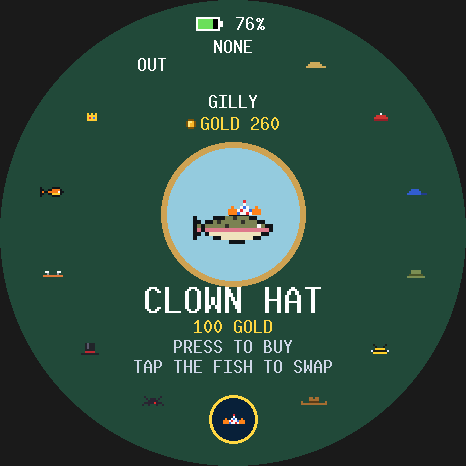
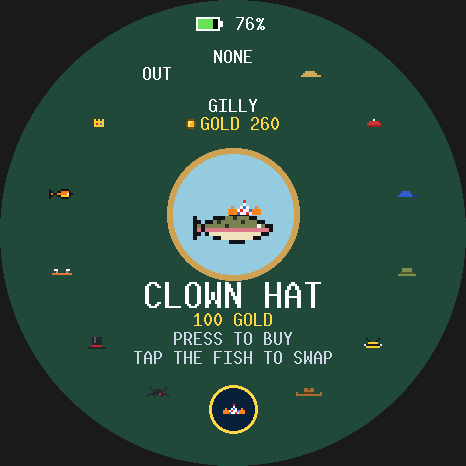
pals_game: the hat shop's ring comes in to 176 px so the pointed hat at 12 o'clock clears the battery level (the trailer footage found it); the mirror and text move to fit. testing::monkey plays with the battery showing at its widest, so every random run checks it too

diff --git a/crates/pals_game/src/shop.rs b/crates/pals_game/src/shop.rs
@@ -26,7 +26,8 @@ const MIRROR_FRAME: Rgb565 = rgb(200, 160, 80);
 /// Round the ring, clockwise from 12 o'clock: NO HAT, the shelf, then OUT.
 pub const CHOICES: usize = HATS.len() + 2;
 pub const OUT: usize = HATS.len() + 1;
-const RING: f32 = 186.0;
+/// The hat ring's radius: inside the battery level at the top of the glass.
+const RING: f32 = 176.0;
 /// A tap this close to a hat on the ring picks it (they're about 83 px apart).
 const HAT_REACH: f32 = 40.0;
 const MIRROR: Point = Point::new(233, 214);
@@ -42,7 +43,7 @@ pub mod ui {
     pub use orbit_ui::Button;
 
     /// The mirror: tap it to dress the next fish.
-    pub const MIRROR: Button = Button::new(163, 144, 140, 140, "");
+    pub const MIRROR: Button = Button::new(167, 148, 132, 132, "");
 }
 
 #[derive(Resource, Debug, Default)]
@@ -155,8 +156,8 @@ fn draw_frame(
         &format!("GOLD {}", pals.gold),
         1,
     );
-    shapes.push(disc(MIRROR.x, MIRROR.y, 72, MIRROR_FRAME));
-    shapes.push(disc(MIRROR.x, MIRROR.y, 66, MIRROR_GLASS));
+    shapes.push(disc(MIRROR.x, MIRROR.y, 66, MIRROR_FRAME));
+    shapes.push(disc(MIRROR.x, MIRROR.y, 60, MIRROR_GLASS));
     let hat = pointed.checked_sub(1).filter(|&hat| hat < HATS.len());
     match pals.pets.get(shop.pet) {
         Some(pet) => {
@@ -171,7 +172,7 @@ fn draw_frame(
                 4,
                 true,
             );
-            shapes.push(label(102, pet.name.as_str(), 1, TEXT));
+            shapes.push(label(106, pet.name.as_str(), 1, TEXT));
         }
         None => {
             if let Some(hat) = hat {
@@ -183,7 +184,7 @@ fn draw_frame(
                     flip_x: false,
                 });
             }
-            shapes.push(label(102, "NO FISH TO DRESS", 1, HINT));
+            shapes.push(label(106, "NO FISH TO DRESS", 1, HINT));
         }
     }
     let worn = pals
@@ -220,11 +221,11 @@ fn draw_frame(
             (shelf.name, status, hint)
         }
     };
-    shapes.push(label(301, name, 2, TEXT));
-    shapes.push(label(327, &status, 1, GOLD));
-    shapes.push(label(347, &hint, 1, HINT));
+    shapes.push(label(296, name, 2, TEXT));
+    shapes.push(label(320, &status, 1, GOLD));
+    shapes.push(label(339, &hint, 1, HINT));
     if pals.pets.len() > 1 {
-        shapes.push(label(367, "TAP THE FISH TO SWAP", 1, HINT));
+        shapes.push(label(358, "TAP THE FISH TO SWAP", 1, HINT));
     }
     if let Some(battery) = power.battery {
         battery_level(shapes, &battery);

diff --git a/crates/orbit_core/src/testing.rs b/crates/orbit_core/src/testing.rs
@@ -94,11 +94,19 @@ pub fn set_tilt(app: &mut App, steer_deg: f32, lean_deg: f32) {
     tilt.lean_deg = lean_deg;
 }
 
-/// Plays like someone who doesn't know the game, for `secs` of game time:
-/// turns and leans the device anywhere, presses, holds, taps all over the
-/// glass and sometimes holds BOOT toward sleep (never long enough to sleep).
+/// Plays like someone who doesn't know the game, for `secs` of game time, on
+/// a battery reading at its widest (100%, charging): turns and leans the
+/// device anywhere, presses, holds, taps all over the glass and sometimes
+/// holds BOOT toward sleep (never long enough to sleep).
 /// With the `crowding` feature every frame on the way is checked.
 pub fn monkey(app: &mut App, secs: f32, seed: u32) {
+    if let Some(mut power) = app.world_mut().get_resource_mut::<crate::Power>() {
+        power.battery = Some(crate::Battery {
+            percent: Some(100),
+            external_power: true,
+            charging: true,
+        });
+    }
     let mut rng = crate::Rng::new(seed);
     let mut left = (secs * TICK_HZ as f32) as u32;
     let frames = |rng: &mut crate::Rng, most: u32| 1 + rng.next_u32() % most;

diff --git a/docs/ESP32_PLATFORM.md b/docs/ESP32_PLATFORM.md
@@ -398,8 +398,10 @@ tilt demos. Expected at rest:
     tallest fish in the tallest hat (TOP HAT) never reaches the text;
   - the tank's fish swim inside 150-316 x 170-290, clear of names round the rim.
 - **Coverage:**
-  - `testing::monkey(app, secs, seed)` plays at random: it turns, leans, presses, holds,
-    taps all over and holds BOOT toward sleep.
+  - `testing::monkey(app, secs, seed)` plays at random, with the battery level at its
+    widest (100%, charging): it turns, leans, presses, holds, taps all over and holds BOOT
+    toward sleep.
+  - The desktop's snapshots and trailer footage are checked too.
   - Each app has a `tests/crowding.rs` that runs it with the most crowded data: full tanks
     of 8-letter names, the tallest hat, 999,999 gold, the top stamina level, every trick on
     both stages and every count of stakes.

diff --git a/devlog/beats.md b/devlog/beats.md
@@ -641,6 +641,9 @@ Images are in `img/`. Newest beats go at the bottom.
   - **Too wide:** RAINBOW LEAP! was wider than the judge's banner, A HUMMING TREE wider
     than its door sign, and TURN RIGHT TO RELEASE, PRESS ran off the glass.
   - **The shop:** its last line sat under the hats at the bottom of the ring.
+- **The trailer's footage found one more.** The tests had never shown a battery. In the hat
+  shop, the gold highlight round the hat at 12 o'clock covered the battery level. The ring
+  came in from 186 to 176 px, and the random player now plays with the battery showing.
 - **Speed:** checking every frame made the full-tank run take 172 s on its own. Two changes
   brought the whole crowding file to 38 s:
   - skipping frames identical to the last one checked;
